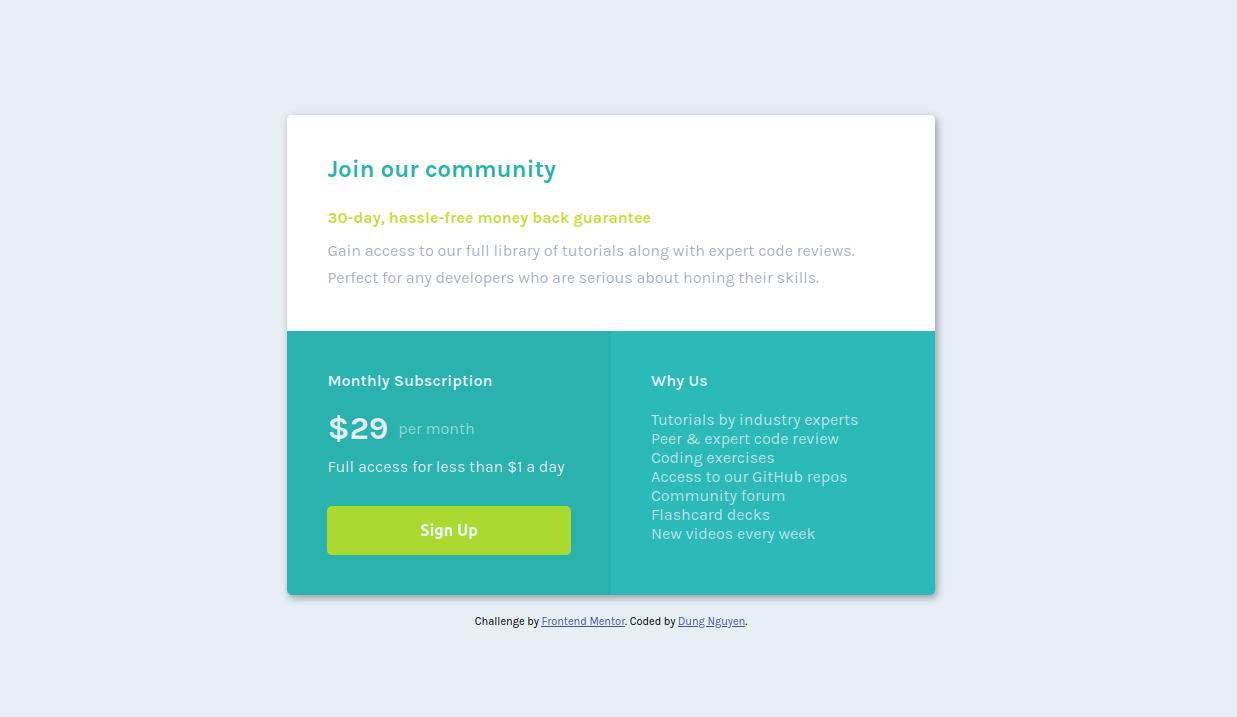
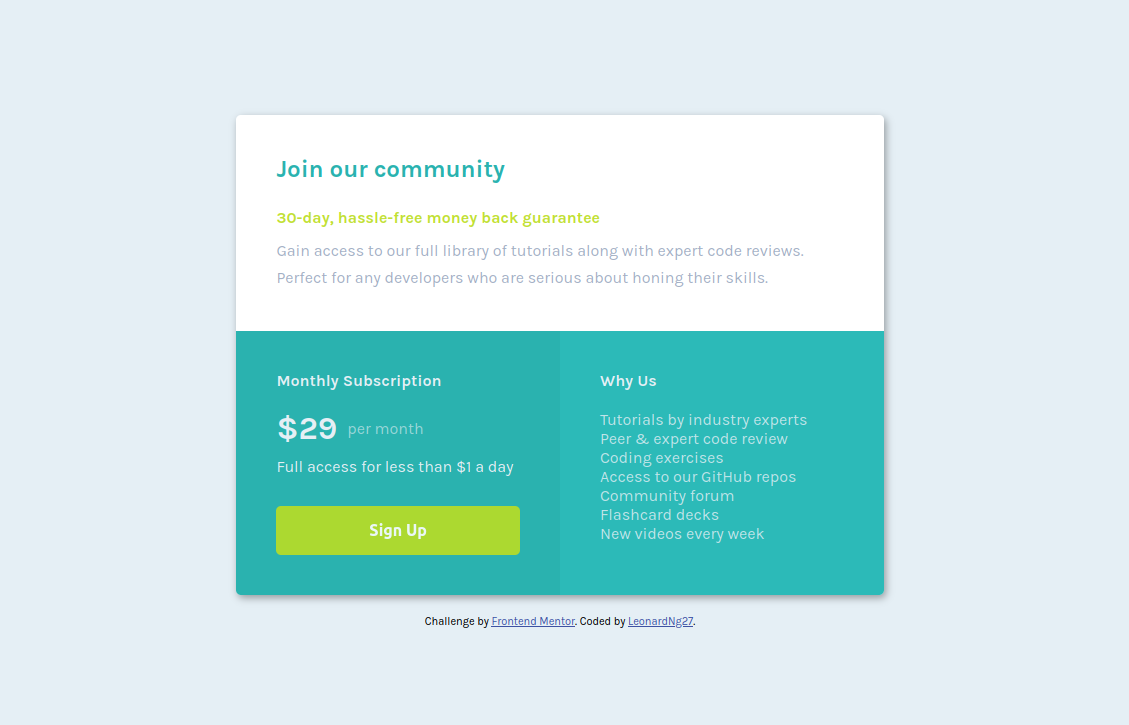
Fix a typo and update my latest project's screenshot image

Changed region(s): [[0.186, 0.1534, 0.806, 0.8898], [0.527, 0.5216, 0.713, 0.7671]]

diff --git a/index.html b/index.html
@@ -75,7 +75,7 @@
   <footer>
     <p class="attribution">
       Challenge by <a href="https://www.frontendmentor.io?ref=challenge" target="_blank">Frontend Mentor</a>. 
-      Coded by <a href="https://x.com/LeonardNg27">LeonardNg2y</a>.
+      Coded by <a href="https://x.com/LeonardNg27">LeonardNg27</a>.
     </p>
   </footer>
 </body>
